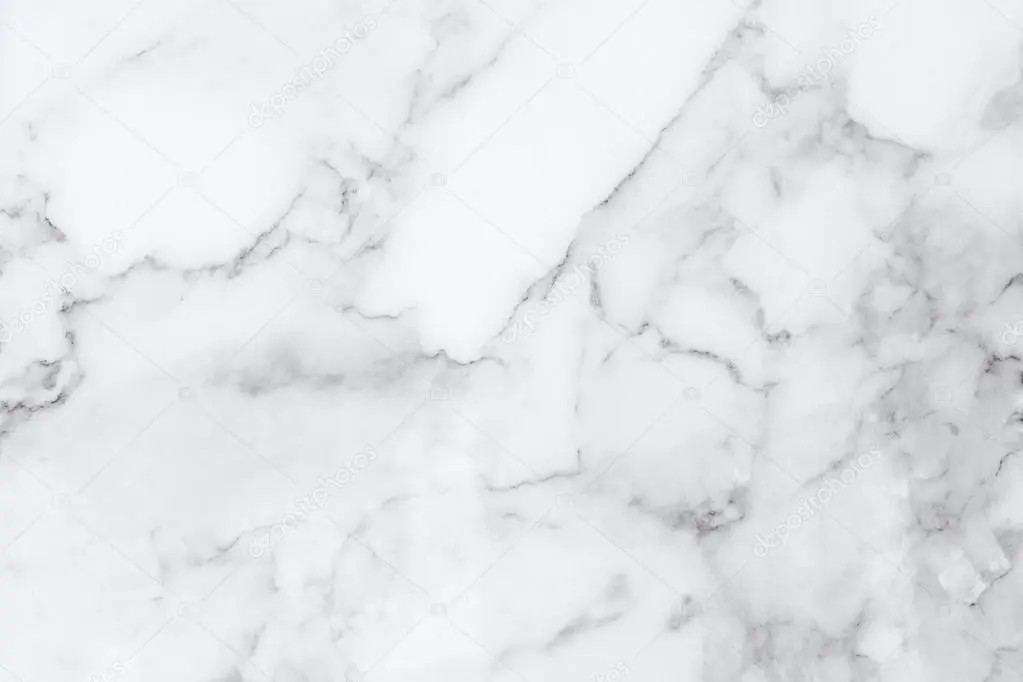
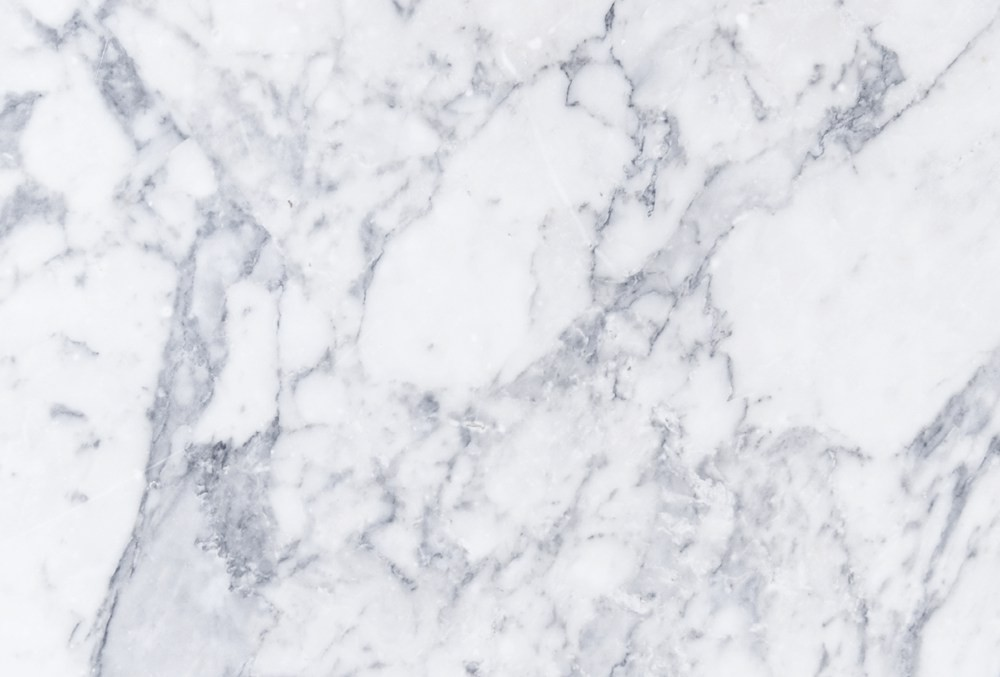
addExpense, addIncome background change

diff --git a/client/src/Pages/Expenses/AddExpense.js b/client/src/Pages/Expenses/AddExpense.js
@@ -6,6 +6,8 @@ import moneySVG from "../../img/money.svg";
 import { createExpAction } from "../../redux/slices/expenses/expensesSlices";
 import './AddExpense.scss';
 import addIncomeImg from "../../img/logo.png";
+import bg from "../../img/addExpenseBg.webp";
+
 const formSchema = Yup.object({
   title: Yup.string().required('title is required'),
   description: Yup.string().required('description is required'),
@@ -33,7 +35,8 @@ const AddExpense = () => {
   return (
     <>
       <div className="AddExpense">
-        <img src={addIncomeImg} className="addIncomeBg"></img>
+        <img src={bg} className="AddExpenseBg"></img>
+        <img src={addIncomeImg} className="addIncome"></img>
         <form onSubmit={formik.handleSubmit}>
           <div class="segment">
             <h1>Add Expense</h1>

diff --git a/client/src/Pages/income/AddIncome.js b/client/src/Pages/income/AddIncome.js
@@ -6,6 +6,8 @@ import moneySVG from "../../img/money.svg";
 import { createIncAction } from "../../redux/slices/incomes/incomesSlices";
 import './AddIncome.scss';
 import addIncomeImg from '../../img/logo.png';
+import bg from "../../img/addIncomeBg.jpg";
+
 const formSchema = Yup.object({
   title: Yup.string().required('title is required '),
   description: Yup.string().required('description is required'),
@@ -33,7 +35,8 @@ const AddIncome = () => {
   return (
     <>
       <div className="AddIncome">
-        <img src={addIncomeImg} className="addIncomeBg"></img>
+        <img src={bg} className="AddIncomeBg"></img>
+        <img src={addIncomeImg} className="addIncome"></img>
         <form onSubmit={formik.handleSubmit}>
           <div class="segment">
             <h1>Add Income</h1>

diff --git a/client/src/Pages/income/AddIncome.scss b/client/src/Pages/income/AddIncome.scss
@@ -6,21 +6,15 @@ $color-white: #fff;
 
 
 
-.addIncomeBg{
-    position: absolute;
-    right:30px;
-    bottom: 300px;
-}
+
+
+
 .AddIncome {
     height: 100vh;
   padding-top: 100px;
-  background: linear-gradient(to right,#bed1f6, rgb(23, 61, 230));
-  display: flex;
+ display: flex;
   justify-content: center;
-  img{
-      width: 250px;
-      height: 250px;
-  }
+
   p,
   input,
   select,
@@ -135,4 +129,12 @@ $color-white: #fff;
       flex: 1;
     }
   }
+}
+
+.addIncome{
+    height: 400px;
+    width: 400px;
+    position: absolute;
+    right:30px;
+    top: 100px;
 }

diff --git a/client/src/Pages/Expenses/AddExpense.scss b/client/src/Pages/Expenses/AddExpense.scss
@@ -16,13 +16,10 @@ $color-white: #fff;
 .AddExpense {
     height: 100vh;
   padding-top: 100px;
-  background: linear-gradient(to right,#f4bcb8, rgb(197, 39, 18));
+  // background: linear-gradient(to right,#f4bcb8, rgb(197, 39, 18));
   display: flex;
   justify-content: center;
-  img{
-      width: 250px;
-      height: 250px;
-  }
+
   p,
   input,
   select,
@@ -138,4 +135,13 @@ $color-white: #fff;
       flex: 1;
     }
   }
+}
+
+img.AddExpenseBg, img.AddIncomeBg{
+  position: absolute;
+  top: 0;
+  left: 0;
+  z-index: -1;
+  height: 120vh;
+  width: 100vw;
 }

diff --git a/client/src/Pages/Expenses/ExpensesList.scss b/client/src/Pages/Expenses/ExpensesList.scss
@@ -11,5 +11,5 @@ img.ExpensesListBg{
         z-index: -1;
         height: 100vh;
         width: 100vw;
-        opacity: 0.6;
+        opacity: 0.5;
 }
